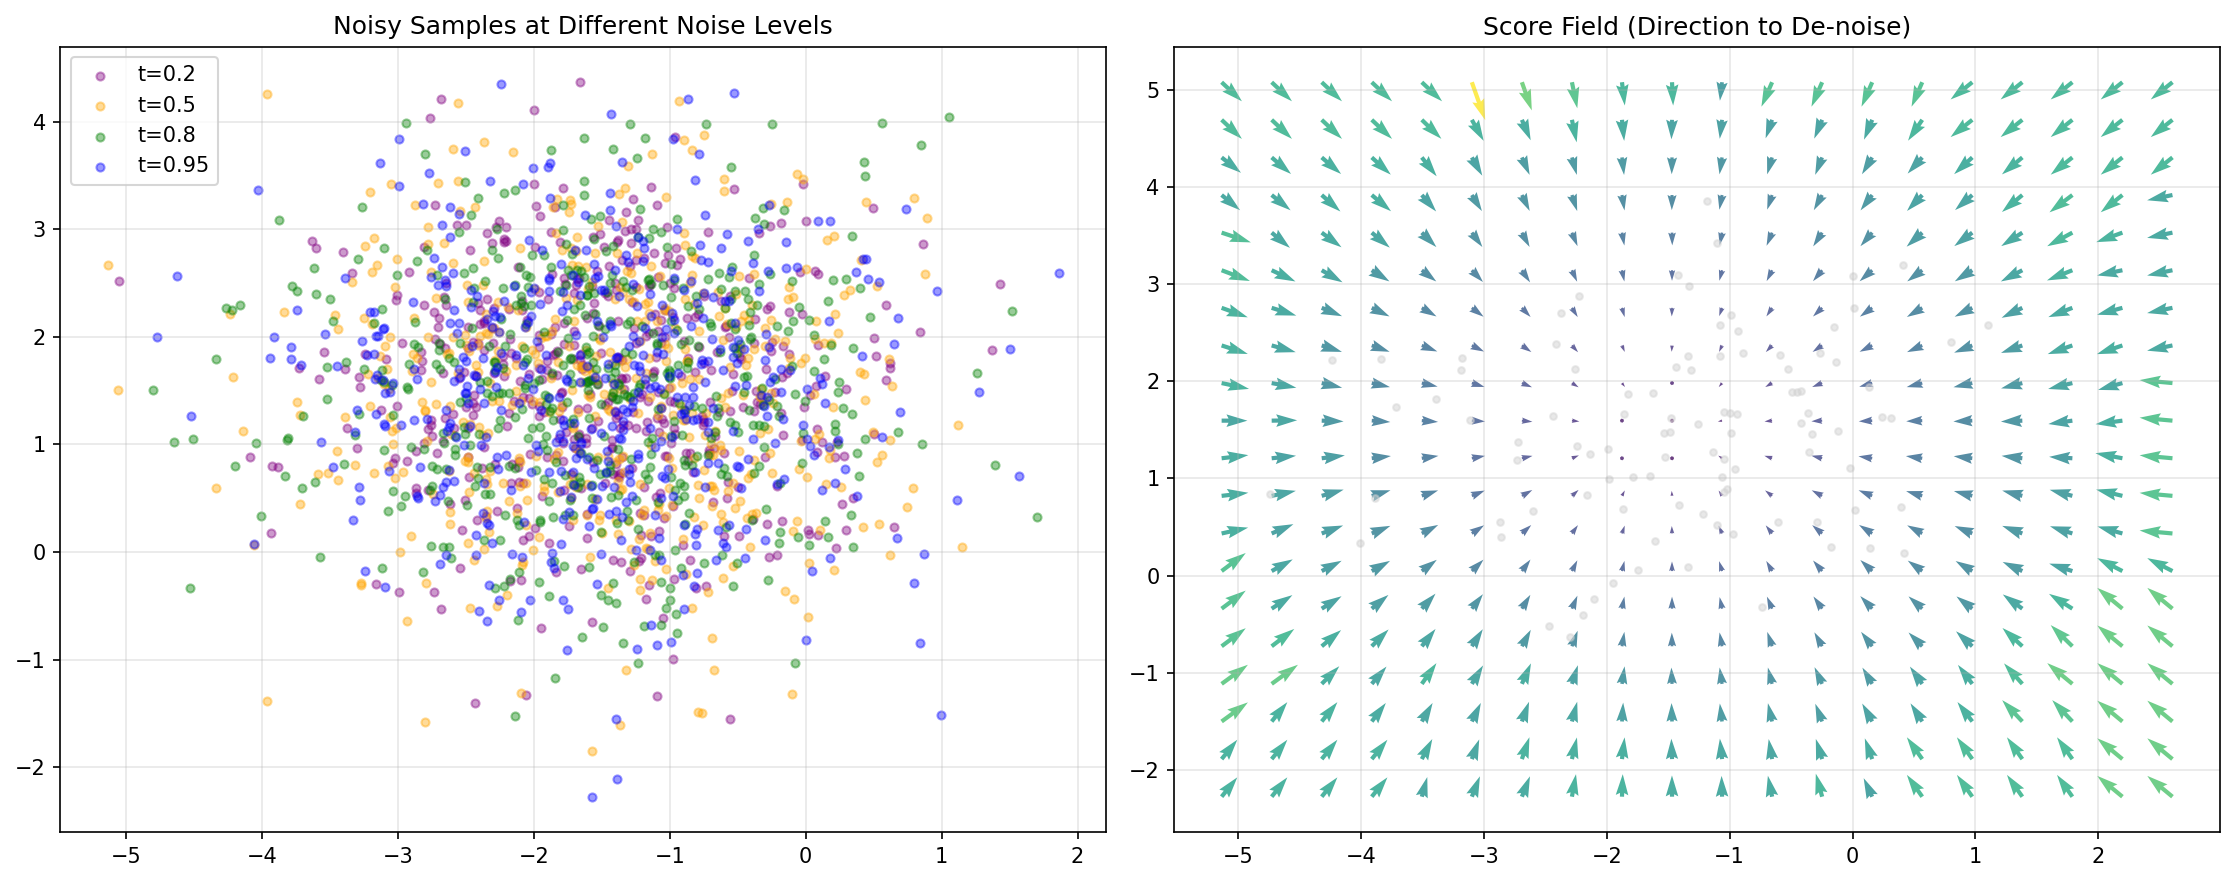
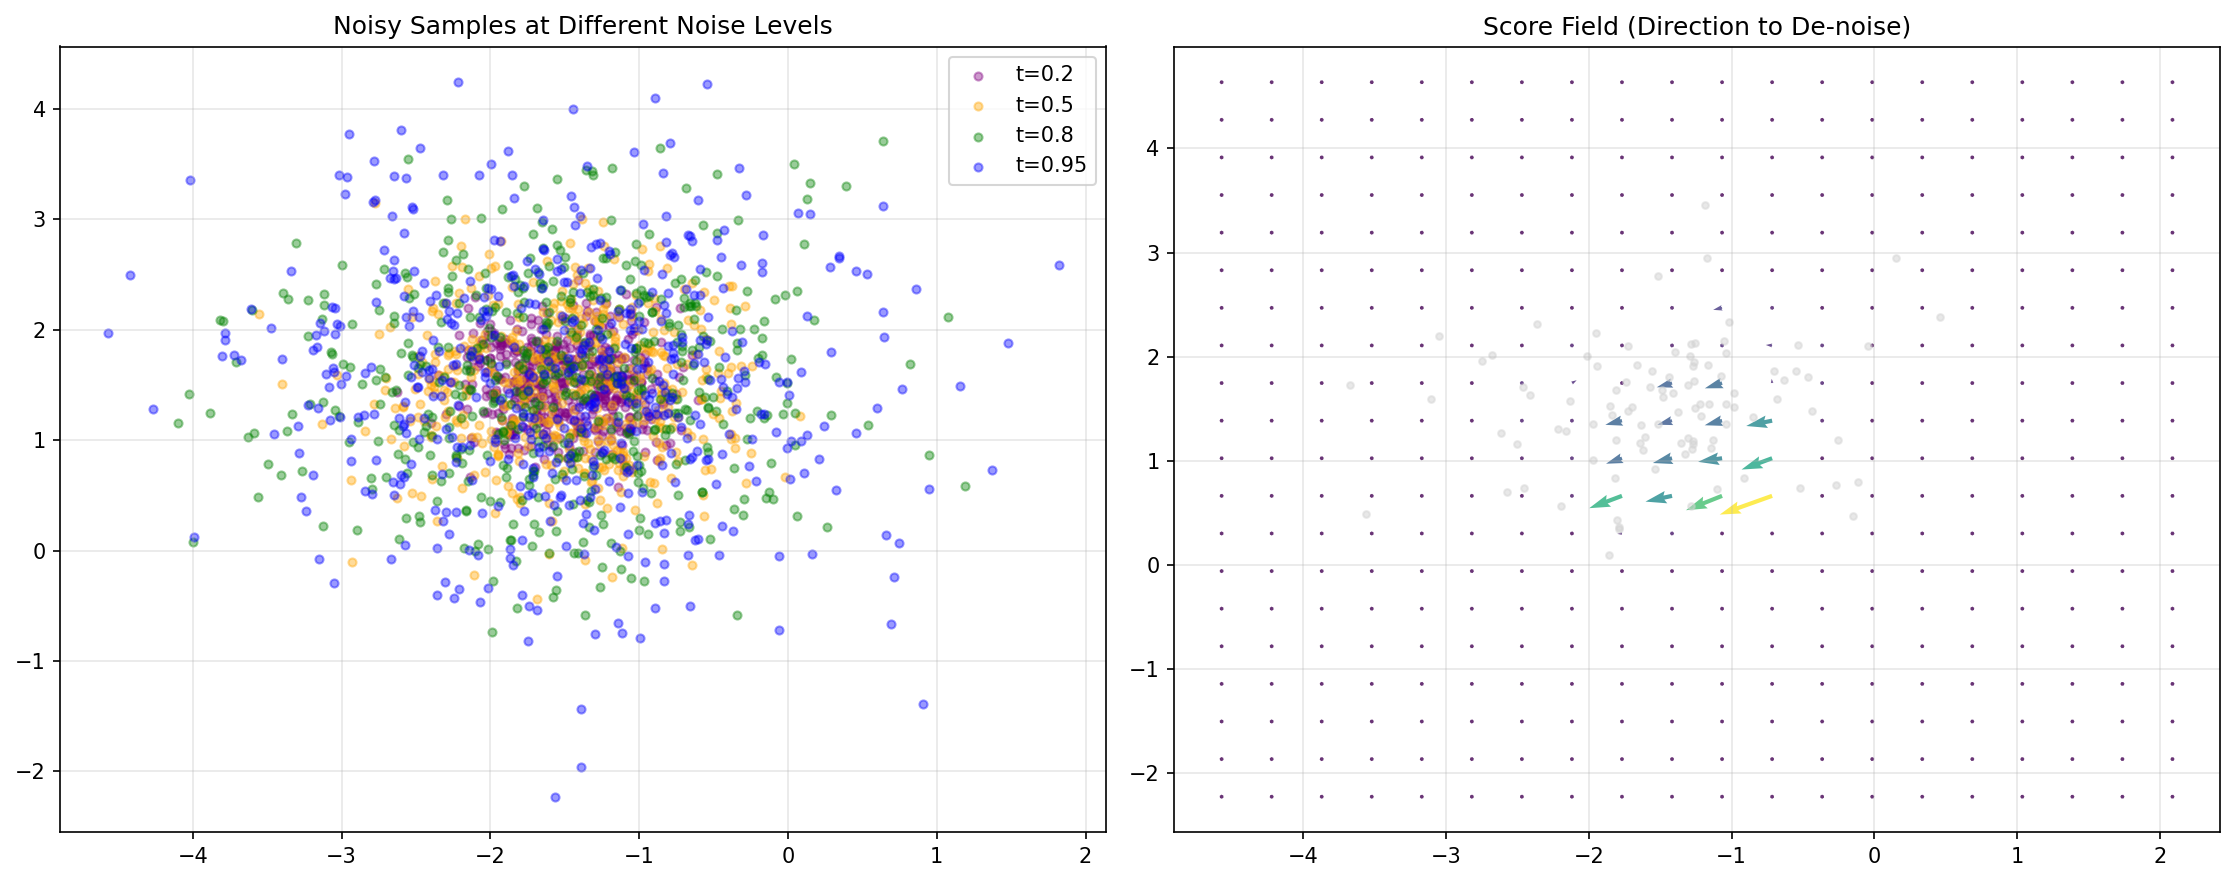
Training SDE gauss to dogs
Did train for a minute but then stopped training.

SOmethiongt o do with t in te data gen.

DId get clean small loss (around 1)

diff --git a/src/train.py b/src/train.py
@@ -22,8 +22,6 @@ class TrainState(train_state.TrainState):
 class Count(nnx.Variable[nnx.A]):
     pass
 
-
-
 def kl_divergence(mean, logvar):
     '''
     KL divergence between N(mean, var) and N(0, 1)
@@ -66,34 +64,39 @@ def compute_mmd(z, z_prior, sigmas):
 
     return mmd
 
-def sde_loss_fn(params, state, batch, rng, eval_mode, kl_beta=1.0):
-    pass
+def flow_matching_loss(params, state, batch, rng, eval_mode):
+    '''
+    Implement the flow matching loss function.
+    
+    This is from the slide 32.
 
-def ode_loss_fn(params, state, batch, rng, eval_mode, kl_beta=1.0):
-    pass
+    '''
+    model = nnx.merge(state.graphdef, params, state.counts)
+    inputs = batch["input"]
+    true_velocity = batch["target"]
 
-def plot_progress(metrics_history):
-    plt.figure(figsize=(10, 5))
-    plt.plot(
-        metrics_history["train_epochs"],
-        metrics_history["train_loss"],
-        label="Training Loss",
-        alpha=0.7,
-    )
-    plt.plot(
-        metrics_history["val_epochs"],
-        metrics_history["val_loss"],
-        "o-",
-        label="Validation Loss",
-        alpha=0.7,
-    )
-    plt.xlabel("Epoch")
-    plt.ylabel("Loss")
-    plt.title("Training Progress")
-    plt.legend()
-    plt.grid(True, alpha=0.3)
-    plt.show()
+    predicted_velocity = model(inputs, deterministic=eval_mode)
 
+    loss = jnp.mean(jnp.square(predicted_velocity - true_velocity))
+
+    return loss, model.counts, (), (loss, 0.0)
+
+def score_matching_loss(params, state, batch, rng, eval_mode):
+    '''
+    
+    '''
+    model = nnx.merge(state.graphdef, params, state.counts)
+    predicted_score = model(batch["input"], deterministic=eval_mode)
+    true_score = batch["target"]
+
+    # Score matching loss
+    reconstruction_loss = jnp.mean((predicted_score - true_score) ** 2)
+    regularization_loss = 0.0
+
+    counts = nnx.state(model, Count)
+    
+    total_loss = reconstruction_loss + regularization_loss
+    return total_loss, counts, (reconstruction_loss, regularization_loss)
 
 def train_model(
     state,
@@ -105,8 +108,6 @@ def train_model(
     minibatch_size,
     eval_every,
     key,
-    visualize=True,
-    console: Console | None = None,
 ):
     metrics_history = {
         "train_epochs": [],
@@ -172,8 +173,6 @@ def train_model(
             )
 
             epoch_times = []
-            if epoch > 0 and visualize:
-                plot_progress(metrics_history)
 
         epoch_times.append(time.time() - epoch_start_time)
 
@@ -192,7 +191,7 @@ def train_model(
 @partial(jax.jit,static_argnames=["loss_fn"])
 def train_step(state, loss_fn, batch, rng):
     def local_fn(params, rng):
-        loss, _, counts, parts = loss_fn(params, state, batch, rng, False)
+        loss, counts, parts = loss_fn(params, state, batch, rng, False)
         return loss, (counts, parts)
 
     (grads, (counts, parts)) = jax.grad(local_fn, has_aux=True)(state.params, rng)
@@ -203,7 +202,7 @@ def train_step(state, loss_fn, batch, rng):
 
 @partial(jax.jit,static_argnames=["loss_fn"])
 def eval_step(state, loss_fn, batch, rng):
-    loss, _, _, parts = loss_fn(state.params, state, batch, rng, True)
+    loss, _, parts = loss_fn(state.params, state, batch, rng, True)
     return {"loss": loss, "reconstruction_loss": parts[0], "regularization_loss": parts[1]}
 
 
@@ -213,16 +212,14 @@ def do_complete_experiment(
     valid_batches,
     model_class,
     loss_fn,
+    output_dim,
     model_kwargs={},
     learning_rate=0.005,
     minibatch_size=256,
     num_epochs=50,
+    hidden_dims=[128, 128, 128],
     eval_every=5,
-    encoder_arch=[1000, 1000, 1000],
-    decoder_arch=[1000, 1000, 1000],
-    latent_dim=20,
-    layernorm=False,
-    dropout=0.0,
+    dropout_rate=0.0,
     activation=nnx.relu,
 ):
     console = Console(force_jupyter=True)
@@ -232,12 +229,11 @@ def do_complete_experiment(
 
     model = model_class(
         rngs=nnx.Rngs(42),
-        input=input_dim,
-        encoder_arch=encoder_arch,
-        decoder_arch=decoder_arch,
-        latent_dim=latent_dim,
-        dropout=dropout,
-        layernorm=layernorm,
+        input_dim=input_dim,
+        output_dim=output_dim,
+        hidden_dims=hidden_dims,
+        dropout_rate=dropout_rate,
+        activation=activation,
         **model_kwargs,
     )
 
@@ -259,15 +255,13 @@ def do_complete_experiment(
     # Create compact rich tables
     model_table = Table(title="Model", show_header=False, box=None)
     model_table.add_row("Input Dim", str(input_dim))
-    model_table.add_row("Encoder arch", str(encoder_arch))
-    model_table.add_row("Decoder arch", str(decoder_arch))
-    model_table.add_row("Latent Dim", str(latent_dim))
+    model_table.add_row("Output Dim", str(output_dim))
+    model_table.add_row("Hidden Dims", str(hidden_dims))
     model_table.add_row(
         "Parameters", f"{sum(x.size for x in jax.tree_util.tree_leaves(params)):,}"
     )
     model_table.add_row("Activation", activation.__name__)
-    model_table.add_row("LayerNorm", str(layernorm))
-    model_table.add_row("Dropout", str(dropout))
+    model_table.add_row("Dropout", str(dropout_rate))
 
     train_table = Table(title="Training", show_header=False, box=None)
     train_table.add_row("Learning Rate", str(learning_rate))
@@ -295,8 +289,6 @@ def do_complete_experiment(
         eval_every=eval_every,
         minibatch_size=minibatch_size,
         key=key,
-        visualize=False,
-        console=console,
     )
 
     experiment_time = time.time() - experiment_start_time

diff --git a/main.py b/main.py
@@ -99,40 +99,65 @@ inspect.visualize_noise_process(
 
 # %%
 
-################################################################################
+# %% [markdown]
 ################################################################################
 
 # ------------ SDE Gaussian to dogs -----------------
-# %% [markdown]
+
 ################################################################################
-# # Train a SDE model to convert Gaussian noise to dog images
+# # Train SDE model to go from Gaussian to dogs
+# This is trained using the score matching loss function.
 
 # %%
+# Generating training and validation data
 reload(train)
 reload(data)
 reload(model)
 reload(inspect)
+train_batches = partial(
+    data.create_batches,
+    *data.create_database(
+        x_gen=data.create_gaussian,
+        y_gen=data.create_dogs,
+        n_samples=10000,
+        key=random.split(key)[0],
+        technique="score_matching"
+    ),
+)
+
+valid_batches = partial(
+    data.create_batches,
+    *data.create_database(
+        x_gen=data.create_gaussian,
+        y_gen=data.create_dogs,
+        n_samples=2000,
+        key=random.split(key)[1],
+        technique="score_matching"
+    ),
+)
 
 sde_trained_model, sde_history = train.do_complete_experiment(
     key,
     train_batches,
     valid_batches,
     model_class=model.SDE,
-    loss_fn=partial(
-        train.sde_loss_fn,
-        kl_beta=0.65
-    ),
+    loss_fn=train.score_matching_loss,
+    output_dim=2,
     learning_rate=0.001,
     minibatch_size=512,
-    latent_dim=32,
-    encoder_arch=[1000, 1000, 1000, 500 ],
-    decoder_arch=[500, 1000, 1000, 1000],
-    num_epochs=1000,
     eval_every=20,
-    dropout=0.1, 
 )
 
 inspect.plot_training_history(sde_history, 'sde-training-history')
+
+# %%
+inspect.visualize_model_generation(
+    sde_trained_model,
+    source_gen=data.create_gaussian,
+    n_samples=500,
+    key=random.split(key)[0],
+    name="sde-generation-gaussians-to-dogs"
+)
 # %% [markdown]
 # ## Understand the performance of the model
 

diff --git a/src/model.py b/src/model.py
@@ -1,10 +1,53 @@
 from flax import nnx
 import jax.numpy as jnp
-import jax.random as random
+from jax import random
+class MLP(nnx.Module):
 
-class SDE(nnx.Module):
-    pass
+    def __init__(self, rngs, input_dim, hidden_dims, output_dim, dropout_rate, activation):
 
+        self.activation = activation
+        self.layers = []
+        prev_dim = input_dim
+        for i, hdim in enumerate(hidden_dims):
+            layer = nnx.Linear(prev_dim, hdim, rngs=rngs)
+            self.layers.append(layer)
+            prev_dim = hdim
 
-class ODE(nnx.Module):
-    pass
+        self.output_layer = nnx.Linear(prev_dim, output_dim, rngs=rngs)
+
+        self.dropout = nnx.Dropout(rate=dropout_rate, rngs=rngs)
+
+    def __call__(self, x, deterministic=False):
+        for layer in self.layers:
+            x = layer(x)
+            x = self.activation(x)
+            if not deterministic:
+                x = self.dropout(x)
+
+        x = self.output_layer(x)
+        return x
+
+        
+class SDE(MLP):
+
+    def generate(self, source_gen, n_samples, key, dt=0.01):
+        '''
+        Generate samples from the learned SDE model starting from source_gen samples.
+
+        Args:
+            source_gen: Function to generate initial samples.
+            dt: Time step for the SDE.
+        Returns:
+            A JAX array of shape (n_samples, 2) representing generated samples.
+        '''
+
+        # Generate initial samples
+        z = source_gen(n_samples, key)
+
+        # Sample from the SDE
+        for step in range(int(1/dt)):
+            t = jnp.ones((n_samples, 1)) * (1 - step * dt)
+
+            z = z + (-t**2 * self(jnp.hstack([z, t]), deterministic=True)) * dt + t * jnp.sqrt(dt) * random.normal(key, shape=z.shape)
+
+        return z

diff --git a/src/inspect.py b/src/inspect.py
@@ -272,3 +272,25 @@ def visualize_noise_process(x_data, scores, name=None):
     if name is not None:
         plt.savefig(output_path + "/" + name + ".png", dpi=150, bbox_inches='tight')
     plt.show()
+
+def visualize_model_generation(model, source_gen, n_samples, key, name=None):
+    '''
+    Visualize samples generated by the model starting from source_gen distribution.
+    
+    Args:
+        model: Trained model with a .generate method
+        source_gen: Function to generate initial samples (e.g., create_gaussian)
+        n_samples: Number of samples to generate
+        name: Name for saving the plot
+    '''
+    generated_samples = model.generate(source_gen, n_samples, key=key, dt=0.01)
+
+    plt.figure(figsize=(8, 8))
+    plt.scatter(generated_samples[:, 0], generated_samples[:, 1], alpha=0.6, c='green', s=10)
+    plt.title('Samples Generated by the Model')
+    plt.grid(True, alpha=0.3)
+
+    if name is not None:
+        plt.savefig(output_path + "/" + name + ".png")
+
+    plt.show()

diff --git a/src/data.py b/src/data.py
@@ -74,15 +74,12 @@ def create_database(x_gen, y_gen, n_samples, key, technique):
     elif technique == "score_matching":
         key_x, key_y, key_t, key_eps = random.split(key, 4)
         y_data = y_gen(n_samples, key_y)
-        t = random.uniform(key_t, shape=(n_samples, 1), minval=0.01, maxval=0.99)  # Avoid t=0,1
+        t = random.uniform(key_t, shape=(n_samples, 1), minval=0.1, maxval=1)
 
-        # Improved noise schedule - Variance Preserving (VP)
-        beta_min = 0.1
-        beta_max = 10.0
-        beta_t = beta_min + t * (beta_max - beta_min)
-        sigma_t = jnp.sqrt(1 - jnp.exp(-beta_t))
+        # TODO: Implement a more complex noise schedule if desired
+        sigma_t = t 
         
-        # Generate proper Gaussian noise
+        # Using x gen as the epsilon as it is noise that is slowly added to the output to get back to the input.
         epsilon = x_gen(n_samples, key_eps)
         x_data = y_data + sigma_t * epsilon
         x_data = jnp.hstack([x_data, t])
